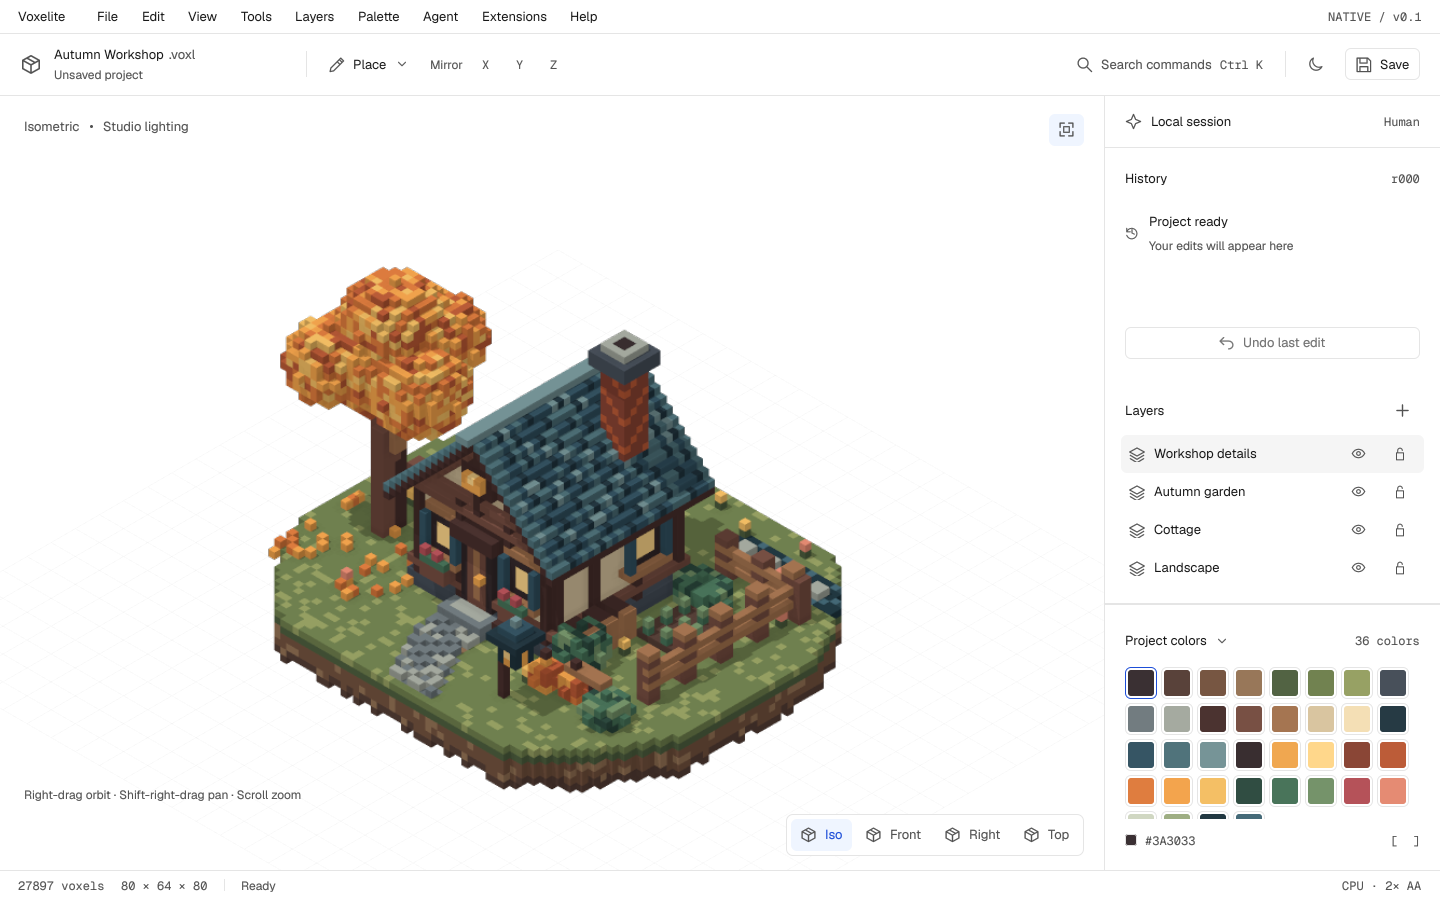
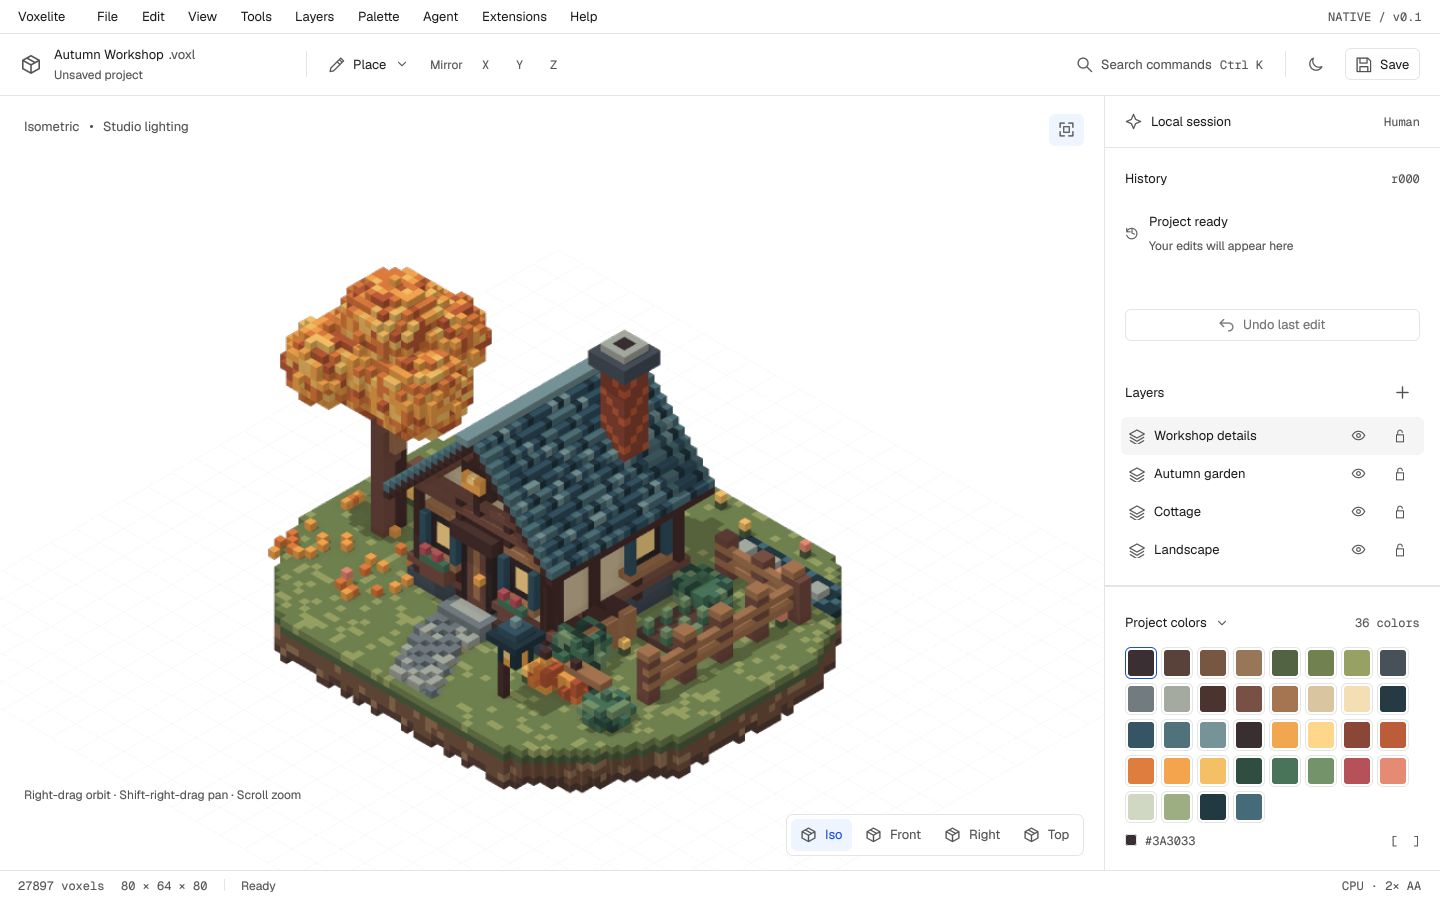
WIP: app checkpoint

diff --git a/crates/voxelite-app/src/ui.rs b/crates/voxelite-app/src/ui.rs
@@ -120,6 +120,7 @@ impl EditorView {
                 }
                 if this.editor.engine.is_dirty() {
                     this.pending = Some(Op::Quit);
+                    this.pending_choice = 2;
                     cx.notify();
                     false
                 } else {
@@ -190,7 +191,11 @@ impl EditorView {
                 self.error = true;
             }
         }
-        self.request_render(cx);
+        // Sampling, empty clicks and rejected edits do not invalidate the image.
+        // Avoid another CPU render (and its input wait) for unchanged content.
+        if self.displayed != Some(self.frame_identity()) {
+            self.request_render(cx);
+        }
         cx.notify();
     }
     fn request_render(&mut self, cx: &mut Context<Self>) {
@@ -458,13 +463,13 @@ impl EditorView {
             Op::Agent => {
                 self.info = Some((
                     "Agent connection",
-                    "This native stage edits a local document. The separate voxelite-mcp server is available for headless agent workflows. Live session attachment is not connected in this shell yet.",
+                    "Live agent connections are not available in this build. Use the voxelite-mcp server for agent workflows, then open the saved .voxl project here.",
                 ))
             }
             Op::Extensions => {
                 self.info = Some((
                     "Extensions",
-                    "The native shell currently includes six built-in tools. Runtime extension loading belongs to the plugin stage.",
+                    "Place, Erase, Paint, Fill, Box and Picker are included. Custom extensions are not available in this build.",
                 ))
             }
             Op::Help => {

diff --git a/docs/reviews/app-review-1.md b/docs/reviews/app-review-1.md
@@ -5,35 +5,99 @@ implementing agent, acting as principal engineer and product-design reviewer;
 this is not independent signoff. Read `PLAN.md`, `design/ART-CHECKLIST.md` and
 Concept A's HTML and dark/light references. No changes under `design/`.
 
-Scope is the existing native GPUI stage. The full v1 product is **not release
-ready**: the documented session/plugin/web, recovery, palette authoring, comments,
-version browsing, export UI and assistive-technology gates still require their
-own implementation stages. Those missing foundations are not represented by
-fake connected controls or by claims of full spec conformance in this review.
+**Disposition: all eight medium/high findings below fixed.** The existing native
+stage is materially safer and closer to Concept A. This is not full v1 release
+approval; the integration and hardware gates below remain explicit.
 
-## Ranked findings
+## Ranked findings and fixes
 
-| ID | Severity | Finding and impact | Resolution |
+| ID | Severity | Finding and reproduction | Fix and evidence |
 | --- | --- | --- | --- |
-| A01 | High | Ordinary Save blindly replaced a file modified by another editor/agent. Saving a symlink replaced the link itself. | Added bounded disk fingerprints, external-change/deletion rejection, resolved open paths, explicit symlink rejection for Save As, no-clobber creation, permission preservation and directory sync. Regression tests cover two writers, deletion, recovery to a new path and symlinks. |
-| A02 | High | Keyboard Fill at an empty cell flooded the entire connected empty volume; keyboard Picker incorrectly rejected locked/hidden active layers. | Empty Fill is a no-op before palette import. Picker samples visible composite before edit eligibility checks. Both have regression tests. |
-| A03 | High | Native file dialogs did not isolate keyboard input; file parsing/serialization ran on the UI thread. Save from an unsaved-changes prompt abandoned the requested New/Open/Quit. | Fix in progress. |
-| A04 | High | A failed render left the old image visible while picking used the new camera; same-ID reopen and viewport resize could accept stale results. | Fix in progress. |
-| A05 | Medium | Permanent left tool rail violates F01 and steals viewport width. Palette dominates the sidebar, with history below the fold. | Fix in progress. |
-| A06 | Medium | At 1024×640, palette popup and viewport navigation hints overflow; long project names displace essential toolbar controls. Disabled controls are almost invisible. | Fix in progress. |
-| A07 | Medium | Palette chooser is mouse-only; inactive/selected camera states are indistinguishable; Top is tilted rather than orthographic top. | Fix in progress. |
+| A01 | High | Open the same file in two editors, save externally, then Save in the first editor: external work was silently overwritten. Atomic save through a symlink replaced the link itself. | Bounded disk fingerprints reject external edits/deletion; opening resolves the target; Save As rejects symlinks. Creation uses no-clobber persistence, existing permissions survive, and Unix directory entries are synced. Tests exercise two writers, deletion, recovery to a new path, symlinks and failed saves. |
+| A02 | High | Select Fill and press Enter at an empty keyboard cursor: the whole connected empty volume filled. Keyboard Picker rejected a locked/hidden active layer although sampling is read-only. | Empty Fill returns before palette import; Picker samples the visible composite before checking edit permissions. Tests assert unchanged document/revision/dirty state and sampling from another visible layer. |
+| A03 | High | Native file dialogs did not isolate keyboard input; parsing/serialization blocked the UI thread. Saving from the unsaved-changes prompt abandoned the requested New/Open/Quit. | Background open/save, a busy input barrier, close-request protection, and save receipts. Save & continue resumes only on success. Cancel/failure retains the document. The prompt has keyboard navigation and defaults to Save. Native smoke tests inject editing keys into the app during the portal dialog and assert an unchanged title; save-and-new checks the saved voxel count. |
+| A04 | High | A failed render could leave an old image visible while picking used the new camera. Reopening the same document ID at revision zero could install a previous editor's result. Resizing also accepted stale dimensions. | Every render carries an editor generation, revision, camera and target size. Installation rejects old generations/revisions/sizes. Picking requires a current settled image and uses its camera; overlay projection uses actual image dimensions. Native tests replace documents while render work is active. Existing projection/raycast tests plus the new camera-fit test verify geometry. |
+| A05 | Medium | The permanent left rail violated F01 and reduced viewport space. A large palette preceded history, reversing the reference's activity-first hierarchy. | Removed the rail; moved active-tool selection/search and mirrors into the unified toolbar. Local session/history precedes layers and the compact palette. Kept truthful local activity rather than inventing an agent transcript. Both theme captures were compared again with Concept A. |
+| A06 | Medium | At 1024×640 the palette popup exceeded available height, viewport hints collided with camera controls, and long names displaced toolbar actions. Disabled controls were nearly invisible. Resizing clipped a previously framed model. | Bounded scrolling, responsive history/layer/palette sizing, title ellipsis, separate hint/control rows, readable disabled tokens/reasons and platform-specific shortcuts. Fitted cameras adapt to aspect changes until manually navigated. Boundary captures exercise 64 layers, 256 colors and a 128-byte project name. |
+| A07 | Medium | Palette selection required the mouse, camera presets had no selected state, and Top was tilted. Tool choice was absent from command search during the first fix pass. | Arrow/Enter/Escape palette navigation with scroll-to-selection; visible camera states, an Iso return action, exact top-down basis and per-view framing. Tool search is reachable from the toolbar, Tools menu and command palette. Unit tests check fitted bounds and exact top-ray direction; native keyboard workflows pass. |
+| A08 | Medium | Sampling a color, clicking empty space or rejecting an edit always launched another CPU render, temporarily blocking pointer editing despite unchanged geometry. | Report handling only requests a render when the current frame identity is invalid. No-op tools remain clean and retain palette/history, covered by editor tests. |
 
-## Baseline evidence
+## Product-design assessment
 
-- `cargo fmt --all -- --check`: pass.
-- `cargo clippy --workspace --all-targets -- -D warnings`: pass.
-- `cargo test --workspace`: 90 passed.
-- Inspected all three `screenshots/*.png`, both Concept A references, and the
-  underlying native layout/input/render/persistence code.
-- Existing art is original Autumn Workshop, intentionally distinct from the
-  concept's Woodland cottage. Pure black/white surfaces and Geist are already
-  present; the review targets composition, hierarchy, controls and behavior.
+The initial app screenshots had the right black/white foundation and real art,
+but the left rail, large palette and faint disabled states made the workspace
+feel like a different editor. The revised shell follows Concept A's unified
+toolbar and activity/layers/palette hierarchy. The viewport remains the largest
+surface; labels use Geist, coordinates/shortcuts use Geist Mono, and the single
+blue accent denotes active tools, mirrors, camera and focus. Destructive Discard
+is text/outline, with Save selected by default.
 
-## Final verification
+The sample remains the original 27,897-voxel Autumn Workshop. It intentionally
+differs from the concept's Woodland cottage. No concept pixels were pasted into
+the application. Dark/light base surface samples are exact `#000000`/`#ffffff`.
+At minimum size, layers and palettes have their own scroll regions; all nine
+menus, command search, save, camera controls and active color remain reachable.
+The full 36-color example palette is visible at 1440×900.
 
-Pending completion of UI fixes and actual native recaptures.
+## Verification
+
+Environment: Linux, Rust 1.99.1 stable, pinned GPUI 1.25.3, Xvfb X11, Mesa
+lavapipe software Vulkan and the GTK desktop portal. No hardware GPU/display is
+required for these checks. Native GPUI builds without a Linux exclusion.
+
+| Check | Result |
+| --- | --- |
+| Baseline fmt, clippy, workspace tests | Pass; 90 tests |
+| `cargo fmt --all -- --check` | Pass |
+| `cargo clippy --workspace --all-targets -- -D warnings` | Pass |
+| `cargo test --workspace` | Pass; **96 tests**, including **22 editor tests** |
+| `cargo test -p voxelite-app --no-default-features` | Pass; **22 tests**, no GPUI |
+| `cargo build --workspace` | Pending final build |
+| `bash scripts/capture-native.sh` | Pending final capture inspection |
+| `bash scripts/review-native.sh` | Core workflows passed; final boundary capture run in progress |
+
+Native regression script assertions cover command typing isolation, searchable
+tool selection, keyboard palette selection, dirty-title transitions, successful
+Save & continue followed by New, exactly one persisted voxel edit, keyboard input
+isolation during the real native file chooser, cancellation, reopening through
+the chooser, Cancel without losing edits, and Discard followed by New. It uses
+only copied/temp fixtures. GTK's Location field under bare Xvfb required clicking
+the actual Open button; the script records this rather than pretending the
+chooser's Enter activation was reliable.
+
+## Evidence
+
+- [Dark, 1440×900](../../screenshots/app-dark.png)
+- [Light, 1440×900](../../screenshots/app-light.png)
+- [Dark, 1024×640](../../screenshots/app-dark-small.png)
+- [Light, 1024×640](../../screenshots/app-light-small.png)
+- [Display-free viewport](../../screenshots/viewport.png)
+- [Tool picker](../../screenshots/review-1/tools.png),
+  [command search](../../screenshots/review-1/command-search.png),
+  [palette chooser](../../screenshots/review-1/palettes.png),
+  [unsaved changes](../../screenshots/review-1/unsaved.png)
+- [Dark boundary layout](../../screenshots/review-1/boundary-dark.png),
+  [light boundary layout](../../screenshots/review-1/boundary-light.png)
+- [Dark 1.5×](../../screenshots/review-1/app-dark-1.5x.png),
+  [light 1.5×](../../screenshots/review-1/app-light-1.5x.png),
+  [dark 2×](../../screenshots/review-1/app-dark-2x.png),
+  [light 2×](../../screenshots/review-1/app-light-2x.png)
+- [Capture script](../../scripts/capture-native.sh),
+  [native workflow script](../../scripts/review-native.sh)
+
+## Limits of this signoff
+
+No medium/high finding in the reviewed native-stage implementation is deferred.
+The broader v1 release gates already documented by the native stage remain:
+live session attachment, plugin hosts, web parity, recovery journals, palette
+library authoring, comments/version browsing, export UI, persistent/system theme
+preferences and assistive-technology certification. A local history header is
+not a working agent session. macOS, Wayland and VoiceOver were not tested here.
+
+The shared CPU renderer limits output to 1024 pixels per axis. Native chrome was
+captured at 1×/1.5×/2×; the viewport texture remains bounded and is softer when
+scaled up. These captures establish layout and rendering correctness, not the
+production GPU viewport's latency or resolution gates. Save conflict protection
+is an optimistic comparison, not a filesystem lock against a process writing
+between the final check and rename. Neither limitation is concealed as a
+production release guarantee.

diff --git a/crates/voxelite-app/README.md b/crates/voxelite-app/README.md
@@ -3,7 +3,9 @@
 A Rust/GPUI desktop shell for the shared Voxelite engine. It opens the bundled
 Autumn Workshop diorama, or a `.voxl` path supplied on the command line. The
 Concept A shell uses bundled Geist fonts, pure black and white themes, a unified
-toolbar, a compact tool rail, palette previews, layers and real command history.
+toolbar with a searchable tool picker, compact palette previews, layers and real
+command history. The sidebar adapts at the 1024×640 minimum window size; large
+palettes and layer lists scroll within bounded panels.
 
 ```sh
 export PATH="$HOME/.cargo/bin:$PATH"
@@ -34,6 +36,8 @@ cargo test -p voxelite-app --no-default-features
 | New / open / save / save as | Ctrl/Cmd N / O / S / Shift S |
 | Search commands | Ctrl/Cmd K; type, arrows, Enter, Escape |
 | Cancel box or dismiss menus | Escape |
+| Choose a preset palette | Palette menu, then Up/Down and Enter |
+| Unsaved-changes prompt | Tab or Left/Right, Enter to confirm, Escape to cancel |
 
 Box uses two clicked corners and commits one solid integer box. The first click
 is only a preview. Place targets the adjacent face or the bottom work plane.
@@ -59,13 +63,27 @@ The CLI path is also supported. Saved files preserve optional forward metadata,
 portable view data, comments, versions and IDs. A same-directory temporary file
 is synced and atomically renamed before clearing dirty state. New, open and
 quit protect unsaved changes; the built-in example has no write destination
-until Save As. Failed saves retain the document and dirty state.
+until Save As. Failed saves retain the document and dirty state. Open and Save
+perform file work on a background executor while editor input is blocked.
+“Save & continue” completes the pending New/Open/Quit only after a successful
+save; cancellation or failure keeps the project open.
+
+Ordinary Save checks the destination against the bytes last opened/saved and
+rejects external edits or deletion. Save As can replace an explicitly selected
+regular file. Saving preserves existing permissions and syncs the parent
+directory on Unix. Opening a symlink resolves its target; Save As rejects symlink
+destinations. Conflict detection is optimistic: it does not lock out an unrelated
+process racing the final rename.
 
 Rendering uses `voxelite-render` on a background executor, with one task in
 flight and coalesced requests. Navigation uses smaller previews, then a 2×
 supersampled image after a short idle interval. The display camera travels with
 the image. Pointer edits wait for the current frame, preventing edits through a
-stale camera. Render jobs from an older edit or replaced document are discarded.
+stale camera, including after a render error. Render jobs from an older edit,
+replaced document (even the same project ID) or viewport size are discarded.
+Fitted views adapt to resizing until the user navigates. Top is an exact Y-axis
+view; every named view fits its own projected bounds. Unchanged clicks and color
+sampling do not trigger a new CPU render.
 Development profiles optimize the CPU renderer and core to keep iteration usable.
 
 The app takes the system appearance at startup; the toolbar toggles it for the
@@ -97,6 +115,10 @@ bash scripts/capture-native.sh
 
 The capture script uses real GPUI windows under Xvfb, not HTML or a composited
 mockup, and writes `screenshots/app-dark.png` and `screenshots/app-light.png`.
+It also captures both themes at 1024×640. `bash scripts/review-native.sh` exercises
+real command search, tool/palette selection, save-and-continue, cancel/discard,
+native Open, dialog input isolation, boundary layouts, and 1.5×/2× captures.
+See [review round 1](../../docs/reviews/app-review-1.md) for findings and evidence.
 A working session D-Bus and desktop portal backend are needed for file dialogs;
 a minimal server without them can still open paths through the CLI and render
 PNGs. Dialog errors appear in the status bar and preserve the current project.
